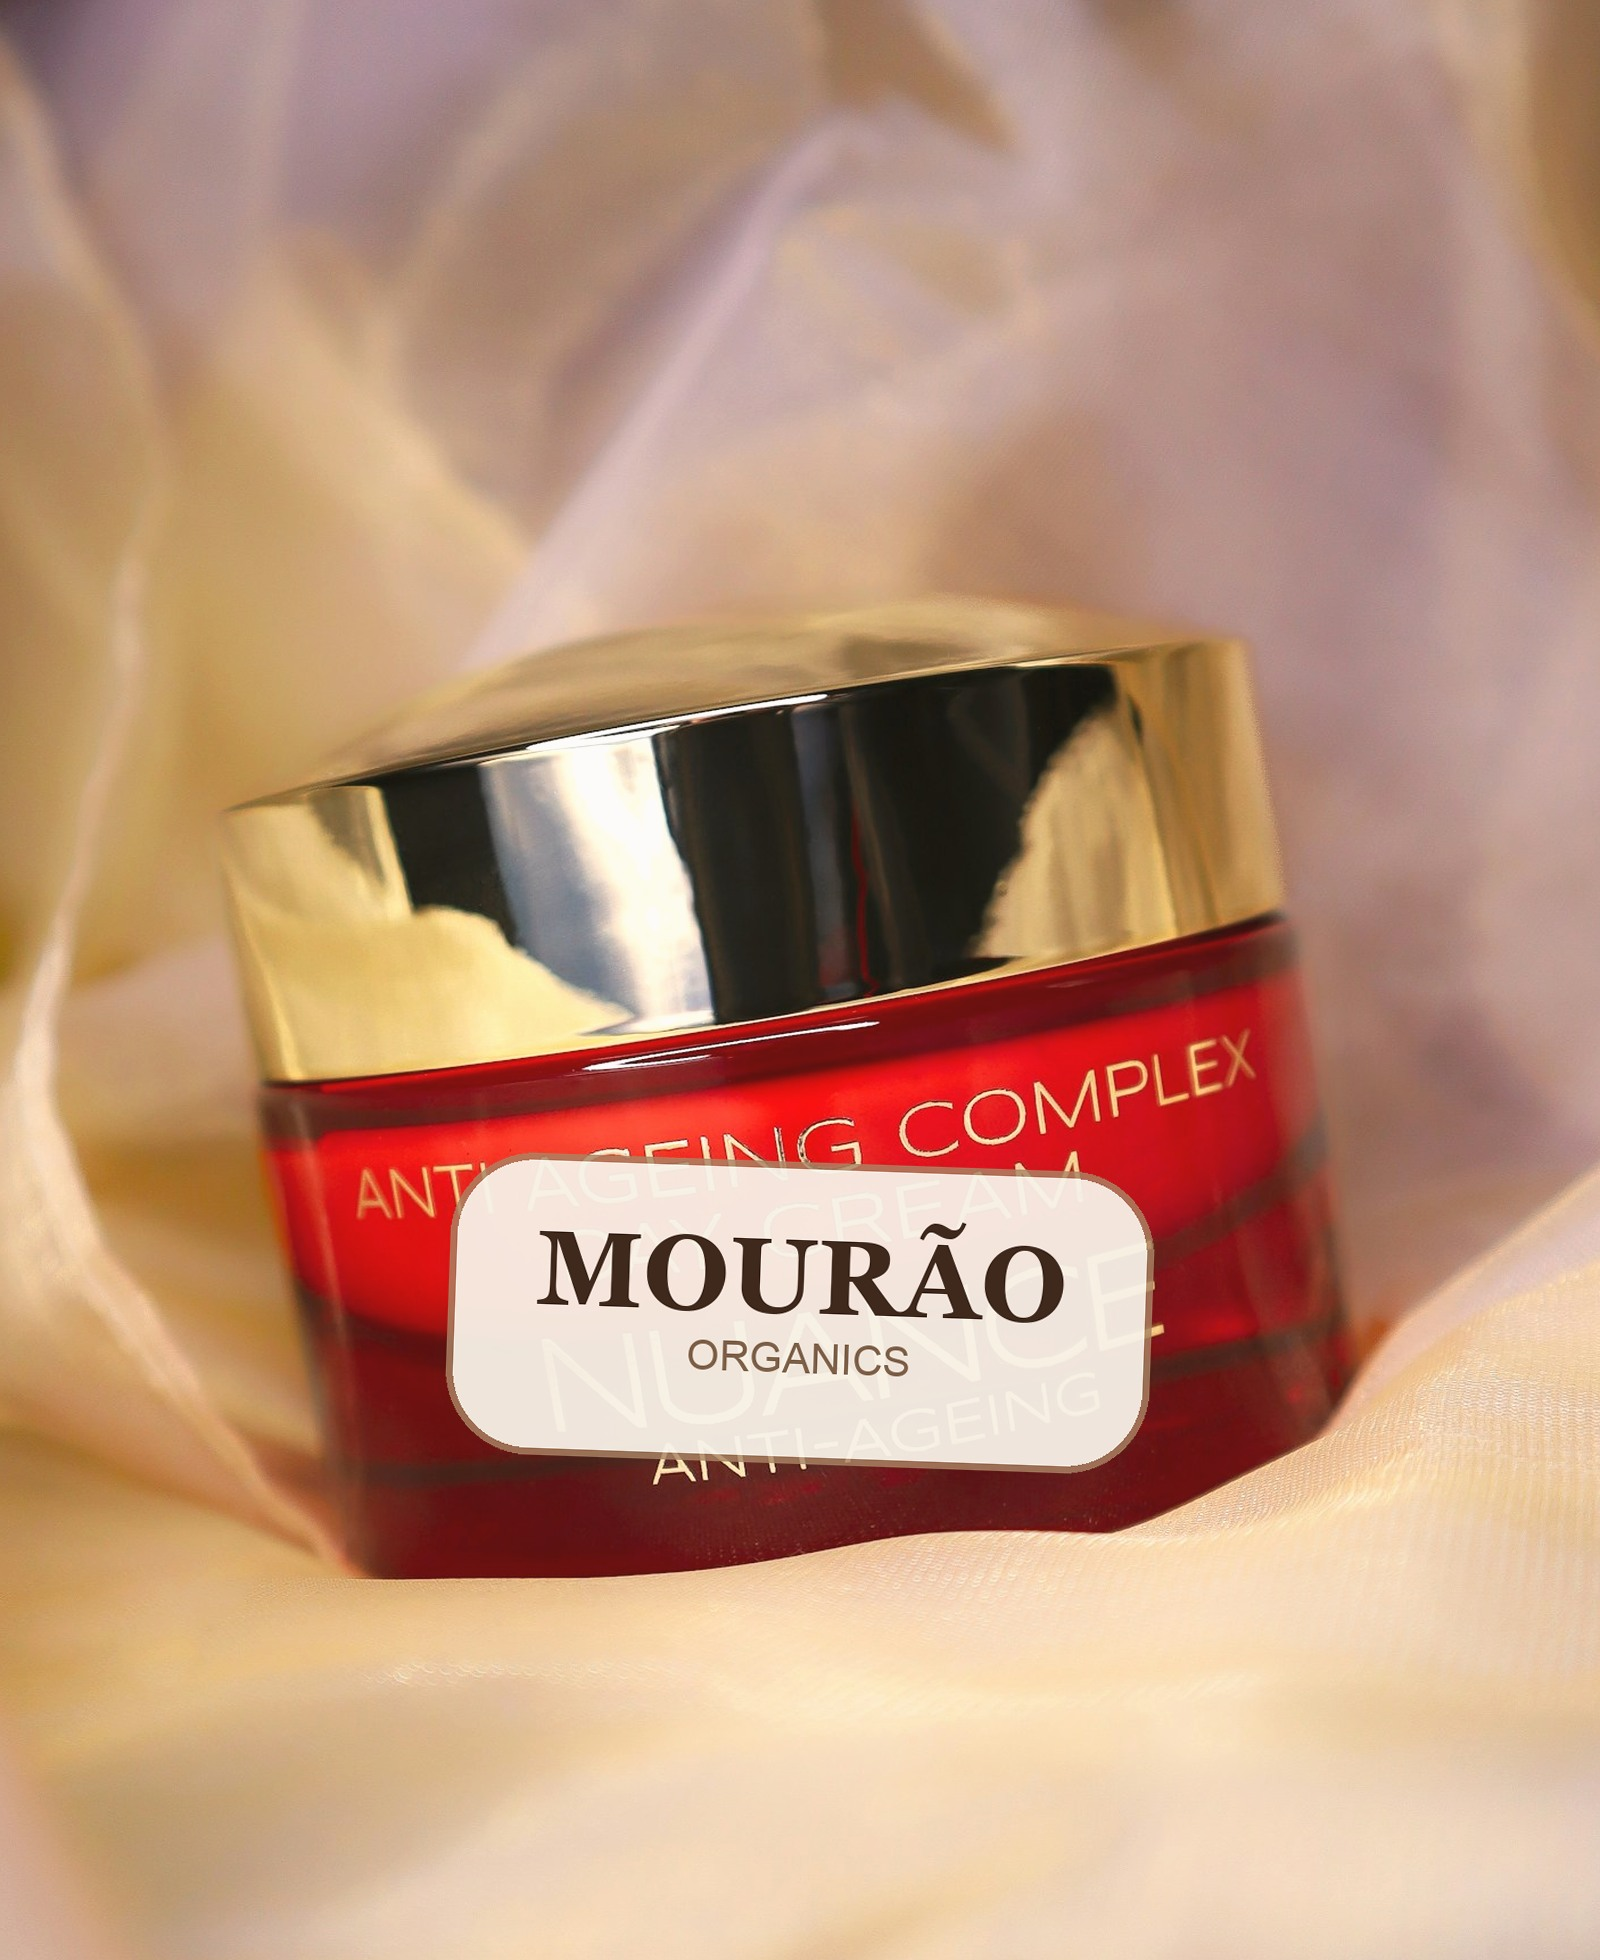
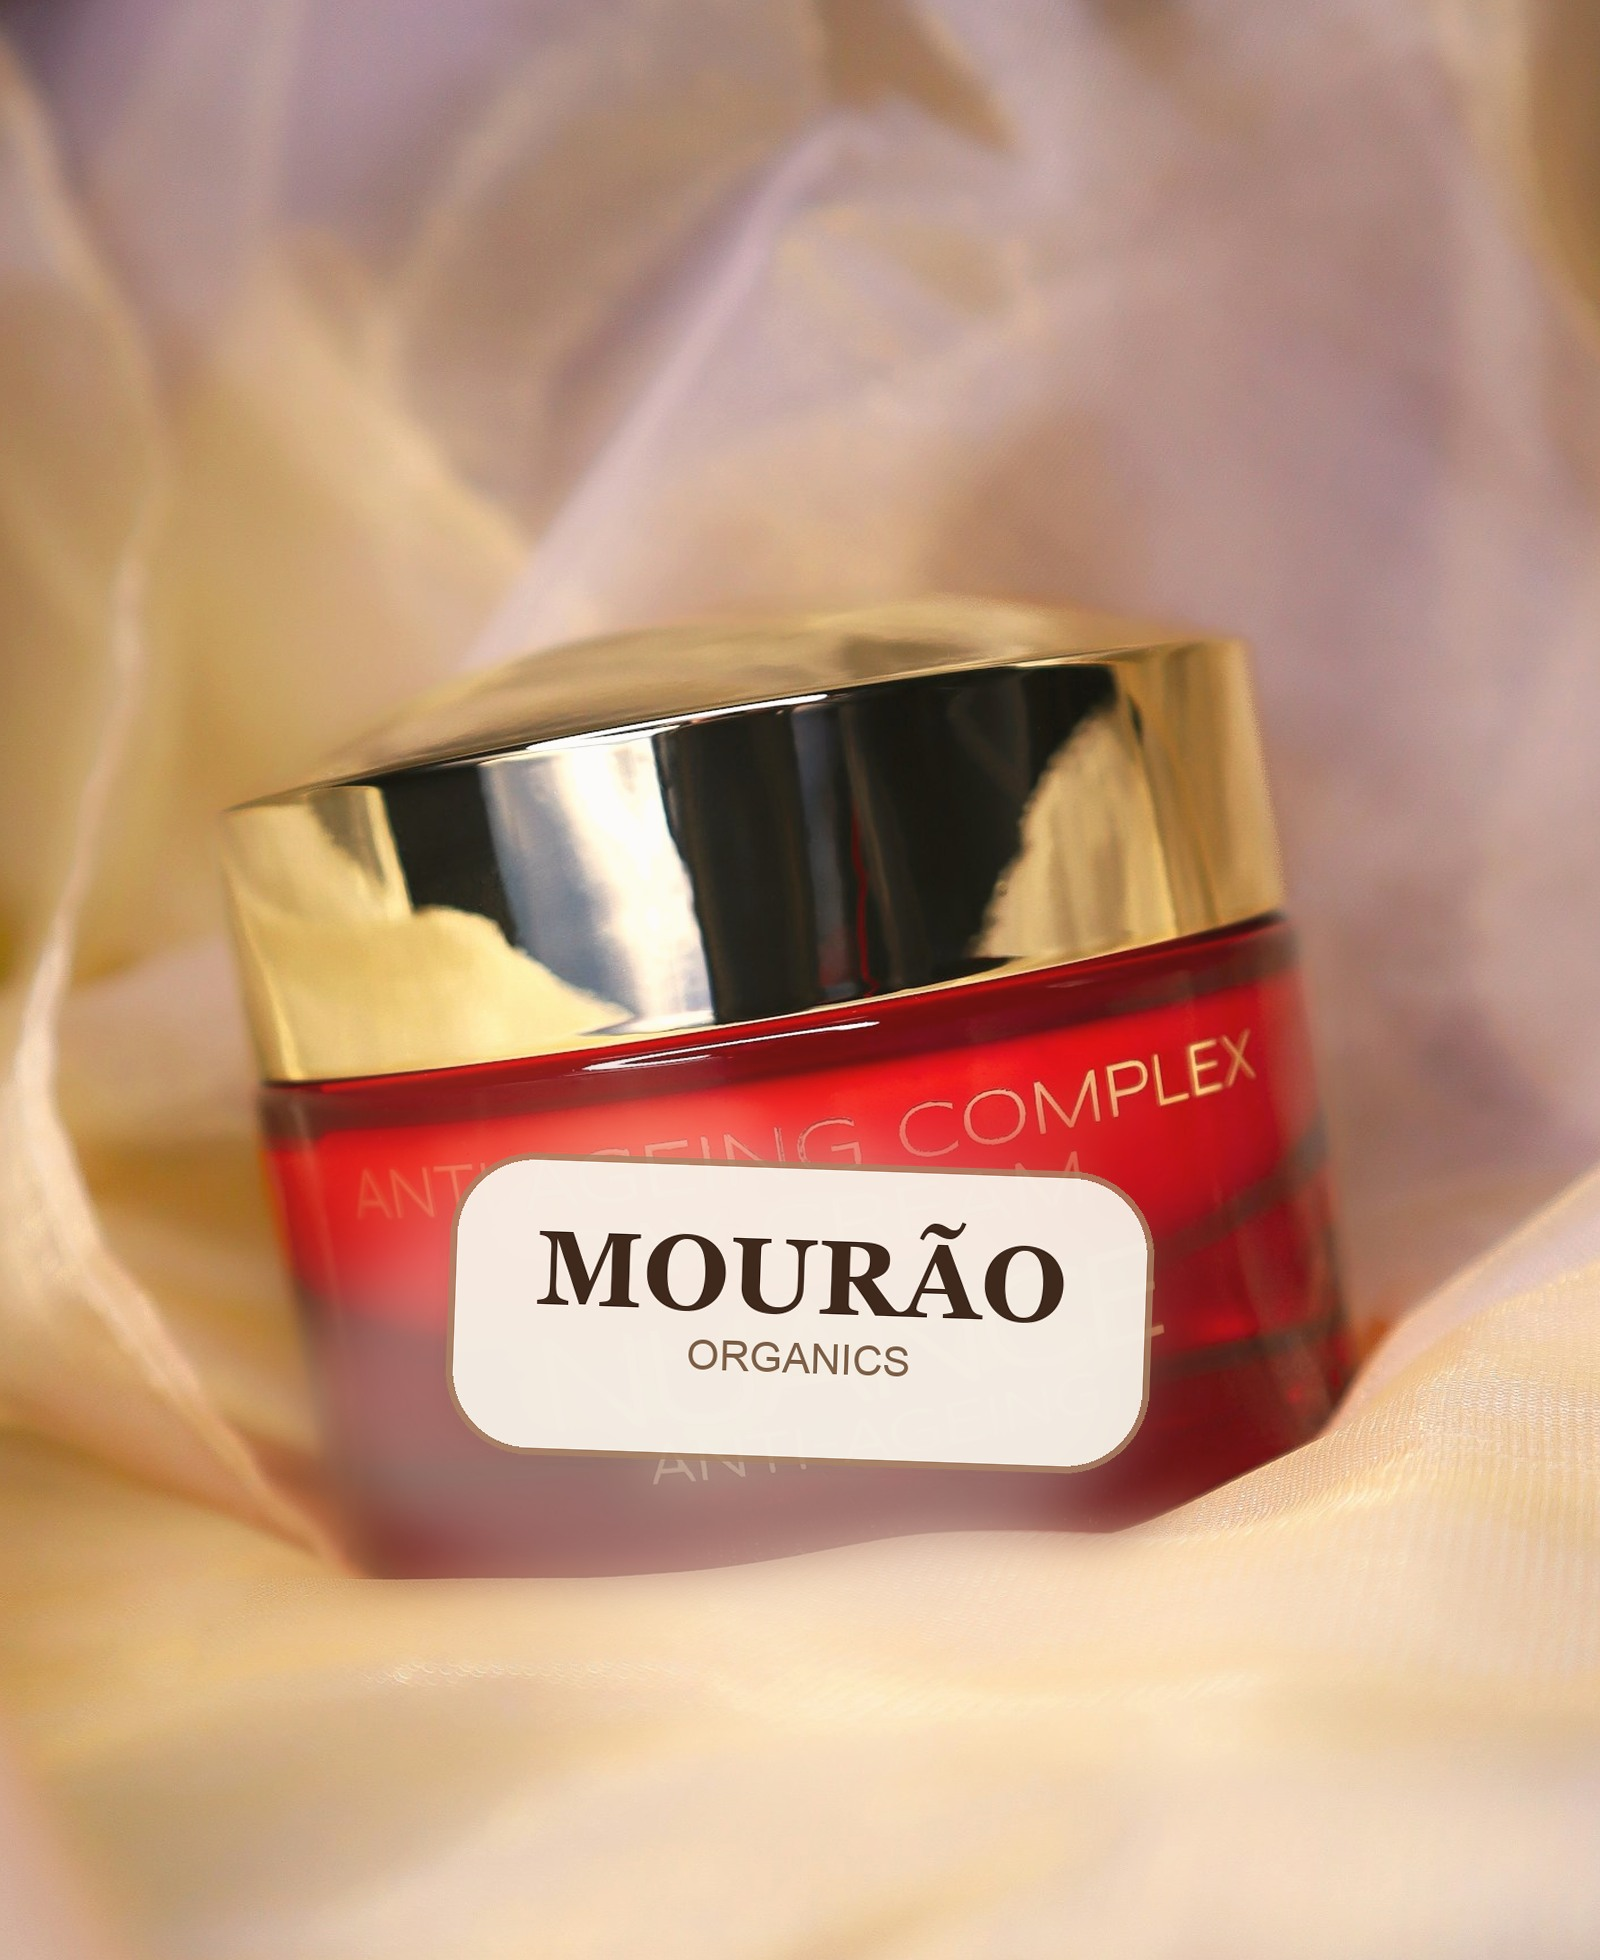
fix(images): soften tallow product branding
WHY:
The tallow product stock source still showed distracting original package text.

WHAT:
Add a targeted packaging-neutralization pass in the stock asset builder.
Regenerate the tallowcreme hero, card, and thumb assets with softer source branding.

IMPACT:
The tallow product page reads more like a Mourão concept image and less like borrowed packaging.
Other product assets are unchanged.

Changed region(s): [[0.1875, 0.5602, 0.75, 0.8092]]

diff --git a/scripts/build-stock-product-assets.py b/scripts/build-stock-product-assets.py
@@ -153,6 +153,48 @@ def warm_grade(image: Image.Image) -> Image.Image:
     return graded.convert("RGBA")
 
 
+def neutralize_packaging(image: Image.Image, handle: str) -> Image.Image:
+    if handle != "tallowcreme":
+        return image
+
+    canvas = image.copy().convert("RGBA")
+    width, height = canvas.size
+
+    mask = Image.new("L", canvas.size, 0)
+    mask_draw = ImageDraw.Draw(mask)
+    mask_draw.rounded_rectangle(
+        (
+            int(width * 0.18),
+            int(height * 0.56),
+            int(width * 0.74),
+            int(height * 0.82),
+        ),
+        radius=int(height * 0.06),
+        fill=188,
+    )
+    mask = mask.filter(ImageFilter.GaussianBlur(radius=max(16, width // 50)))
+
+    blurred_canvas = canvas.filter(ImageFilter.GaussianBlur(radius=max(10, width // 70)))
+    canvas = Image.composite(blurred_canvas, canvas, mask)
+
+    tint = Image.new("RGBA", canvas.size, (244, 236, 226, 0))
+    tint_mask = Image.new("L", canvas.size, 0)
+    tint_draw = ImageDraw.Draw(tint_mask)
+    tint_draw.ellipse(
+        (
+            int(width * 0.2),
+            int(height * 0.58),
+            int(width * 0.7),
+            int(height * 0.83),
+        ),
+        fill=104,
+    )
+    tint_mask = tint_mask.filter(ImageFilter.GaussianBlur(radius=max(18, width // 42)))
+    tint.putalpha(tint_mask)
+    canvas.alpha_composite(tint)
+    return canvas
+
+
 def text_size(draw: ImageDraw.ImageDraw, text: str, font: ImageFont.FreeTypeFont) -> tuple[int, int]:
     left, top, right, bottom = draw.textbbox((0, 0), text, font=font)
     return right - left, bottom - top
@@ -244,6 +286,7 @@ def add_label(image: Image.Image, label: LabelSpec, logo: Image.Image) -> Image.
 
 
 def build_variant(
+    handle: str,
     source: Image.Image,
     size: tuple[int, int],
     focus: tuple[float, float],
@@ -253,7 +296,8 @@ def build_variant(
 ) -> Image.Image:
     cropped = focal_crop(source, size, focus, zoom)
     graded = warm_grade(cropped)
-    branded = add_label(graded, label, logo)
+    cleaned = neutralize_packaging(graded, handle)
+    branded = add_label(cleaned, label, logo)
     return branded.convert("RGB")
 
 
@@ -267,8 +311,8 @@ def main() -> None:
         source_path = ensure_source(spec)
         source = Image.open(source_path).convert("RGB")
 
-        hero = build_variant(source, HERO_SIZE, spec.focus, spec.zoom, spec.label, logo)
-        card = build_variant(source, CARD_SIZE, spec.focus, spec.zoom * 0.92, spec.label, logo)
+        hero = build_variant(spec.handle, source, HERO_SIZE, spec.focus, spec.zoom, spec.label, logo)
+        card = build_variant(spec.handle, source, CARD_SIZE, spec.focus, spec.zoom * 0.92, spec.label, logo)
         save_jpeg(hero, ASSETS_DIR / f"mourao-product-{spec.handle}-hero.jpg")
         save_jpeg(card, ASSETS_DIR / f"mourao-product-{spec.handle}-card.jpg")
 
@@ -277,7 +321,7 @@ def main() -> None:
                 max(0.0, min(1.0, spec.focus[0] + dx)),
                 max(0.0, min(1.0, spec.focus[1] + dy)),
             )
-            thumb = build_variant(source, THUMB_SIZE, thumb_focus, spec.zoom * extra_zoom, spec.label, logo)
+            thumb = build_variant(spec.handle, source, THUMB_SIZE, thumb_focus, spec.zoom * extra_zoom, spec.label, logo)
             save_jpeg(thumb, ASSETS_DIR / f"mourao-product-{spec.handle}-thumb-{index}.jpg")
 
 
